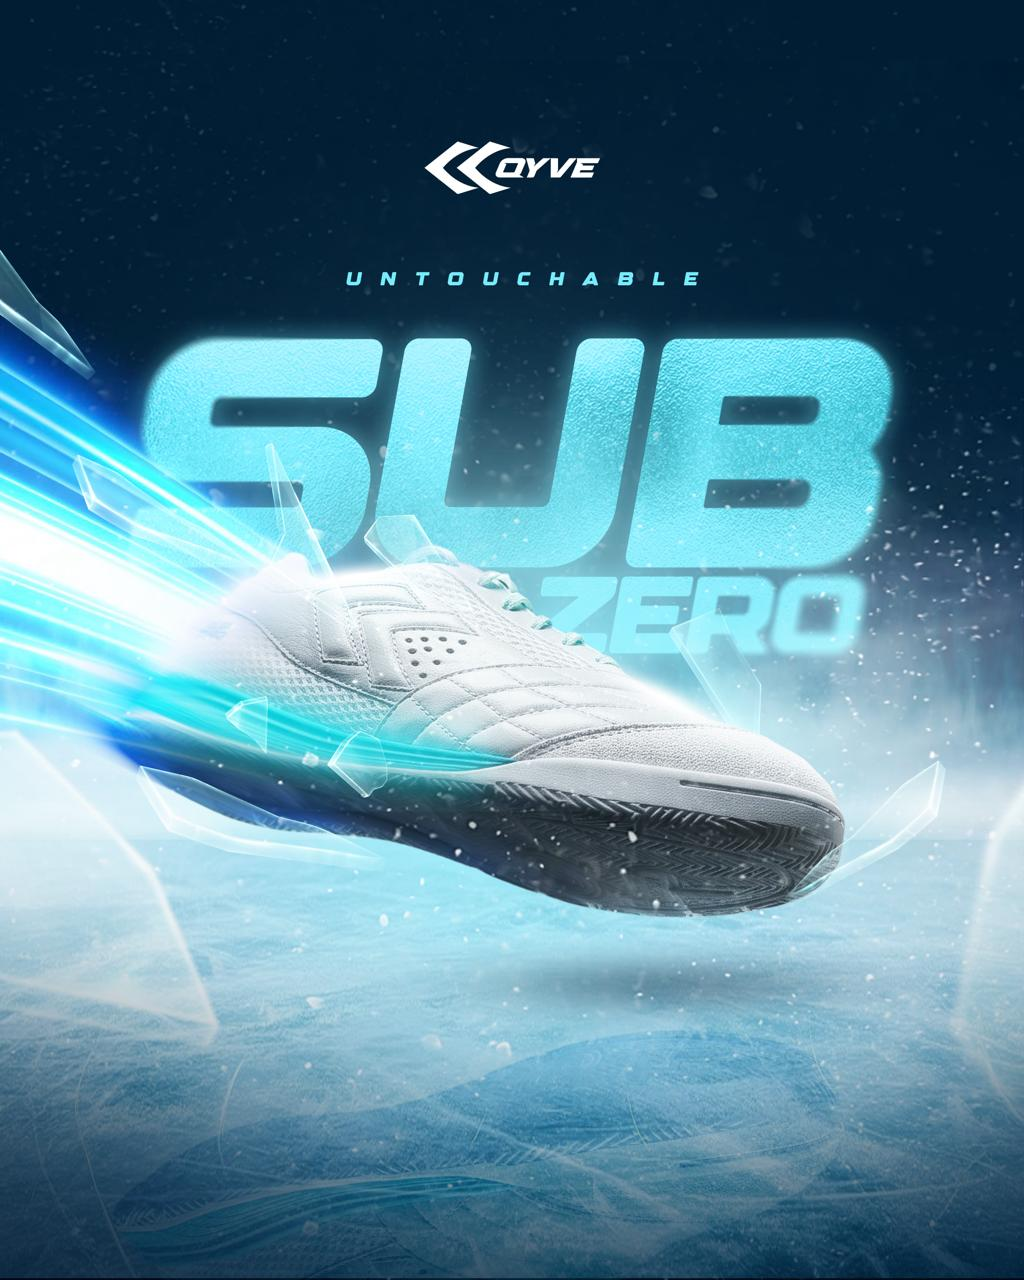
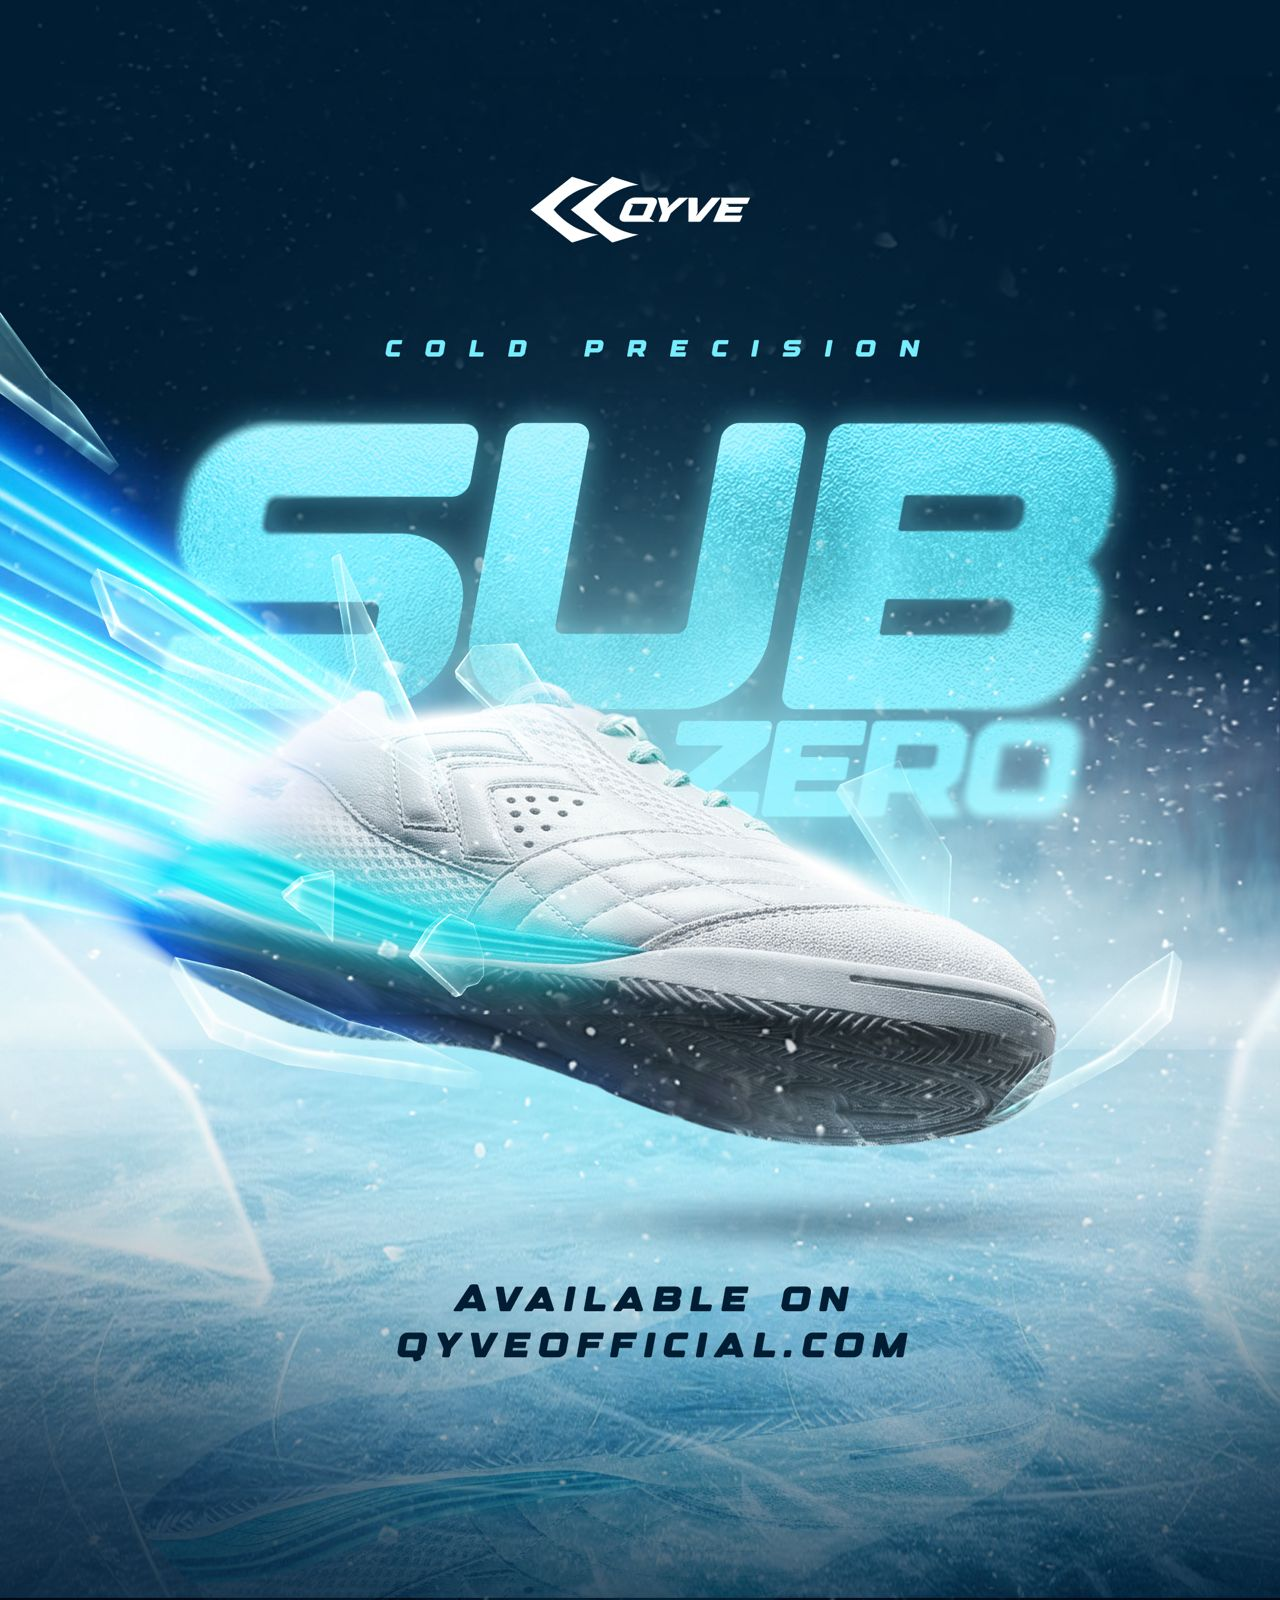
changes to wording and image

Changed region(s): [[0.3125, 0.75, 0.75, 0.875], [0.4375, 0.1875, 0.625, 0.25], [0.3438, 0.1875, 0.4062, 0.2188]]

diff --git a/src/app/campaigns/subzero/SubZeroSizeChart.tsx b/src/app/campaigns/subzero/SubZeroSizeChart.tsx
@@ -2,13 +2,13 @@ import React from 'react';
 
 const SubZeroSizeChart = () => {
   const sizeData = [
-    { eu: '38', uk: '5.5', mm: '252.99' },
-    { eu: '39', uk: '6', mm: '259.66' },
-    { eu: '40', uk: '7', mm: '266.33' },
-    { eu: '41', uk: '7.5', mm: '273' },
-    { eu: '42', uk: '8.5', mm: '279.67' },
-    { eu: '43', uk: '9', mm: '286.34' },
-    { eu: '44', uk: '10', mm: '293.01' },
+    { eu: '38', uk: '5.5', cm: '25.3' },
+    { eu: '39', uk: '6', cm: '26.0' },
+    { eu: '40', uk: '7', cm: '26.6' },
+    { eu: '41', uk: '7.5', cm: '27.3' },
+    { eu: '42', uk: '8.5', cm: '28.0' },
+    { eu: '43', uk: '9', cm: '28.6' },
+    { eu: '44', uk: '10', cm: '29.3' },
   ];
 
   return (
@@ -30,7 +30,7 @@ const SubZeroSizeChart = () => {
                     UK Size
                   </th>
                   <th className="px-6 py-4 text-center text-sm font-bold uppercase tracking-wider">
-                    Foot Length (mm)
+                    Foot Length (cm)
                   </th>
                 </tr>
               </thead>

diff --git a/src/app/campaigns/subzero/SubZeroPreOrder.tsx b/src/app/campaigns/subzero/SubZeroPreOrder.tsx
@@ -20,8 +20,8 @@ const SubZeroPreOrder = () => {
             <span className="text-[#4FD1C5]">SUBZERO</span>
           </h2>
           <p className="text-gray-600 mx-auto max-w-2xl text-lg">
-            Limited pre-order slots available. Be among the first to experience
-            the future of futsal performance.
+            Limited pre-order of up to 50 pairs ONLY. Be among the first to
+            experience the future of futsal performance.
           </p>
         </div>
 
